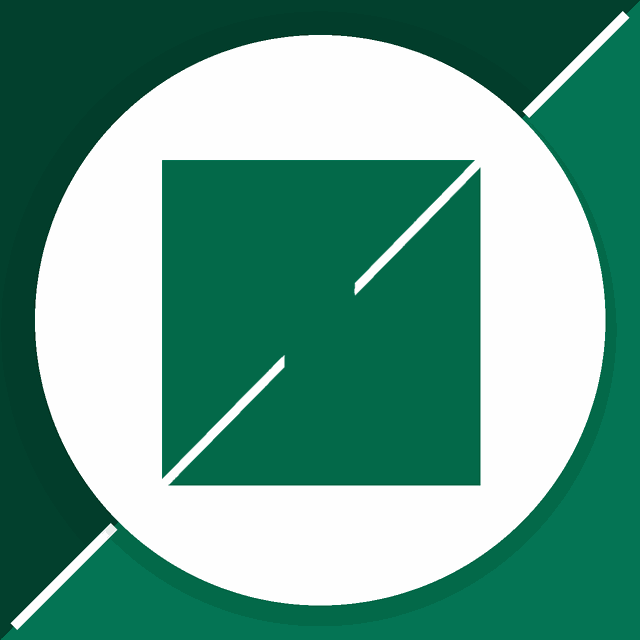
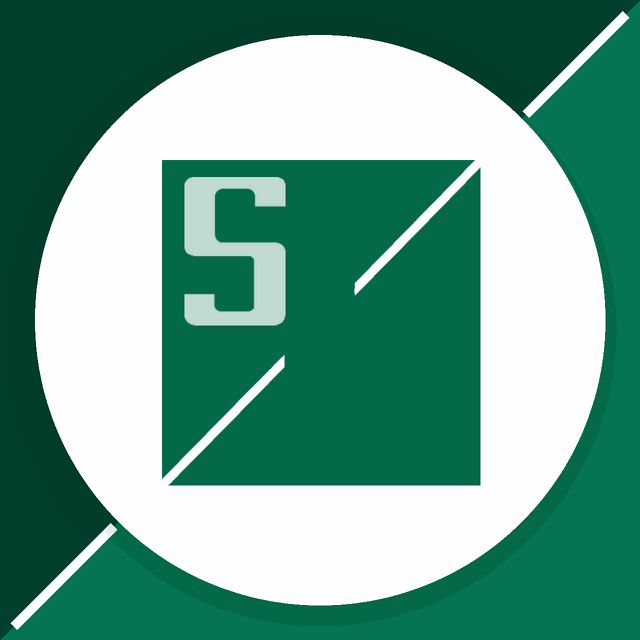
Hold the home hero animation at 1.33s instead of 1.2s
The hero GIF plays once and then swaps to a still of the frame it had
reached, so the cutoff lives in three places that have to agree: HOLD_MS
in home.js, the --at default freeze_frame.py captures with, and the
generated PNG itself. All three move to 1330 ms.

The still is regenerated at the new cutoff -- the GIF is on frame 31 at
1330 ms, not frame 28 as at 1200 ms, so leaving the old PNG in place
would make the hero jump backwards at the moment it settles.

Claude-Session: https://claude.ai/code/session_01K91bDwXnc8HQM5UvZB4gW8

Changed region(s): [[0.2812, 0.25, 0.4688, 0.5312]]

diff --git a/static/js/home.js b/static/js/home.js
@@ -8,7 +8,7 @@
   // in a still of the frame the animation reaches at the cutoff. That still is
   // generated by tools/freeze_frame.py; change HOLD_MS and the still stops
   // matching the animation until the script is re-run with the same --at.
-  var HOLD_MS = 1200;
+  var HOLD_MS = 1330;
 
   var image = document.getElementById("home-hero-animation");
   if (!image) {

diff --git a/tools/freeze_frame.py b/tools/freeze_frame.py
@@ -15,7 +15,7 @@ install it just for this (``pip install pillow``).
 
 Usage::
 
-    python tools/freeze_frame.py                       # 1200 ms of the home page GIF
+    python tools/freeze_frame.py                       # 1330 ms of the home page GIF
     python tools/freeze_frame.py --at 2000
     python tools/freeze_frame.py --gif in.gif --out still.png --at 500
 """
@@ -30,7 +30,7 @@ from PIL import Image
 REPO_ROOT = Path(__file__).resolve().parents[1]
 DEFAULT_GIF = REPO_ROOT / "static" / "img" / "sc_loading_animation.gif"
 DEFAULT_OUT = REPO_ROOT / "static" / "img" / "sc_loading_animation_still.png"
-DEFAULT_AT_MS = 1200
+DEFAULT_AT_MS = 1330
 
 
 def frame_at(gif_path: Path, at_ms: int) -> Image.Image:
